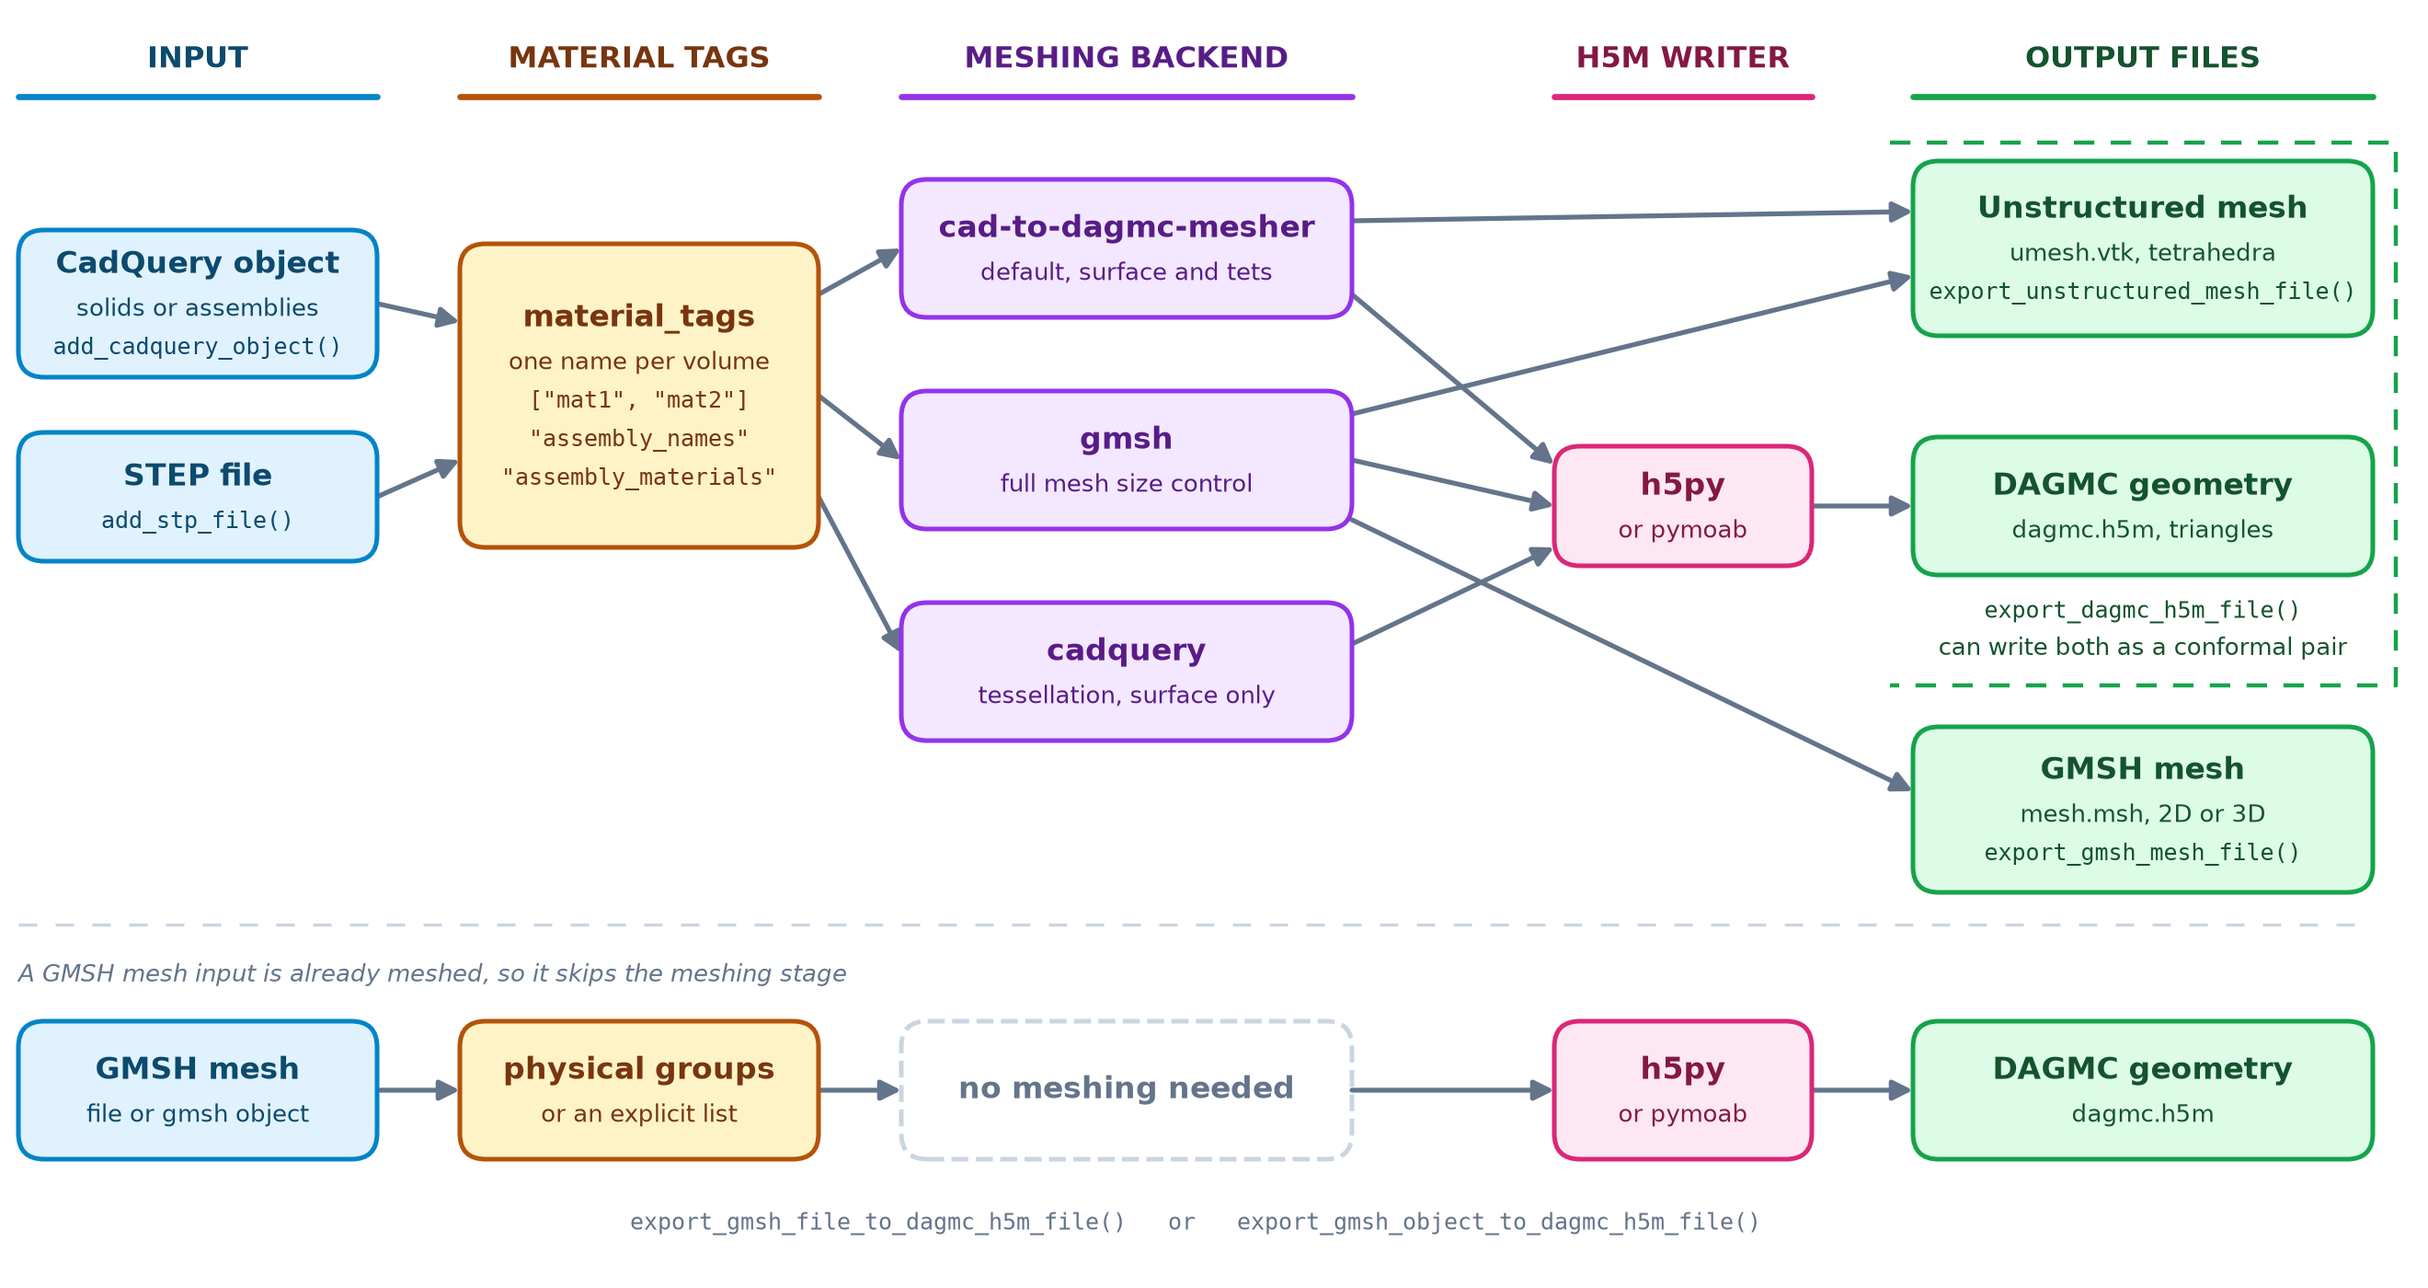
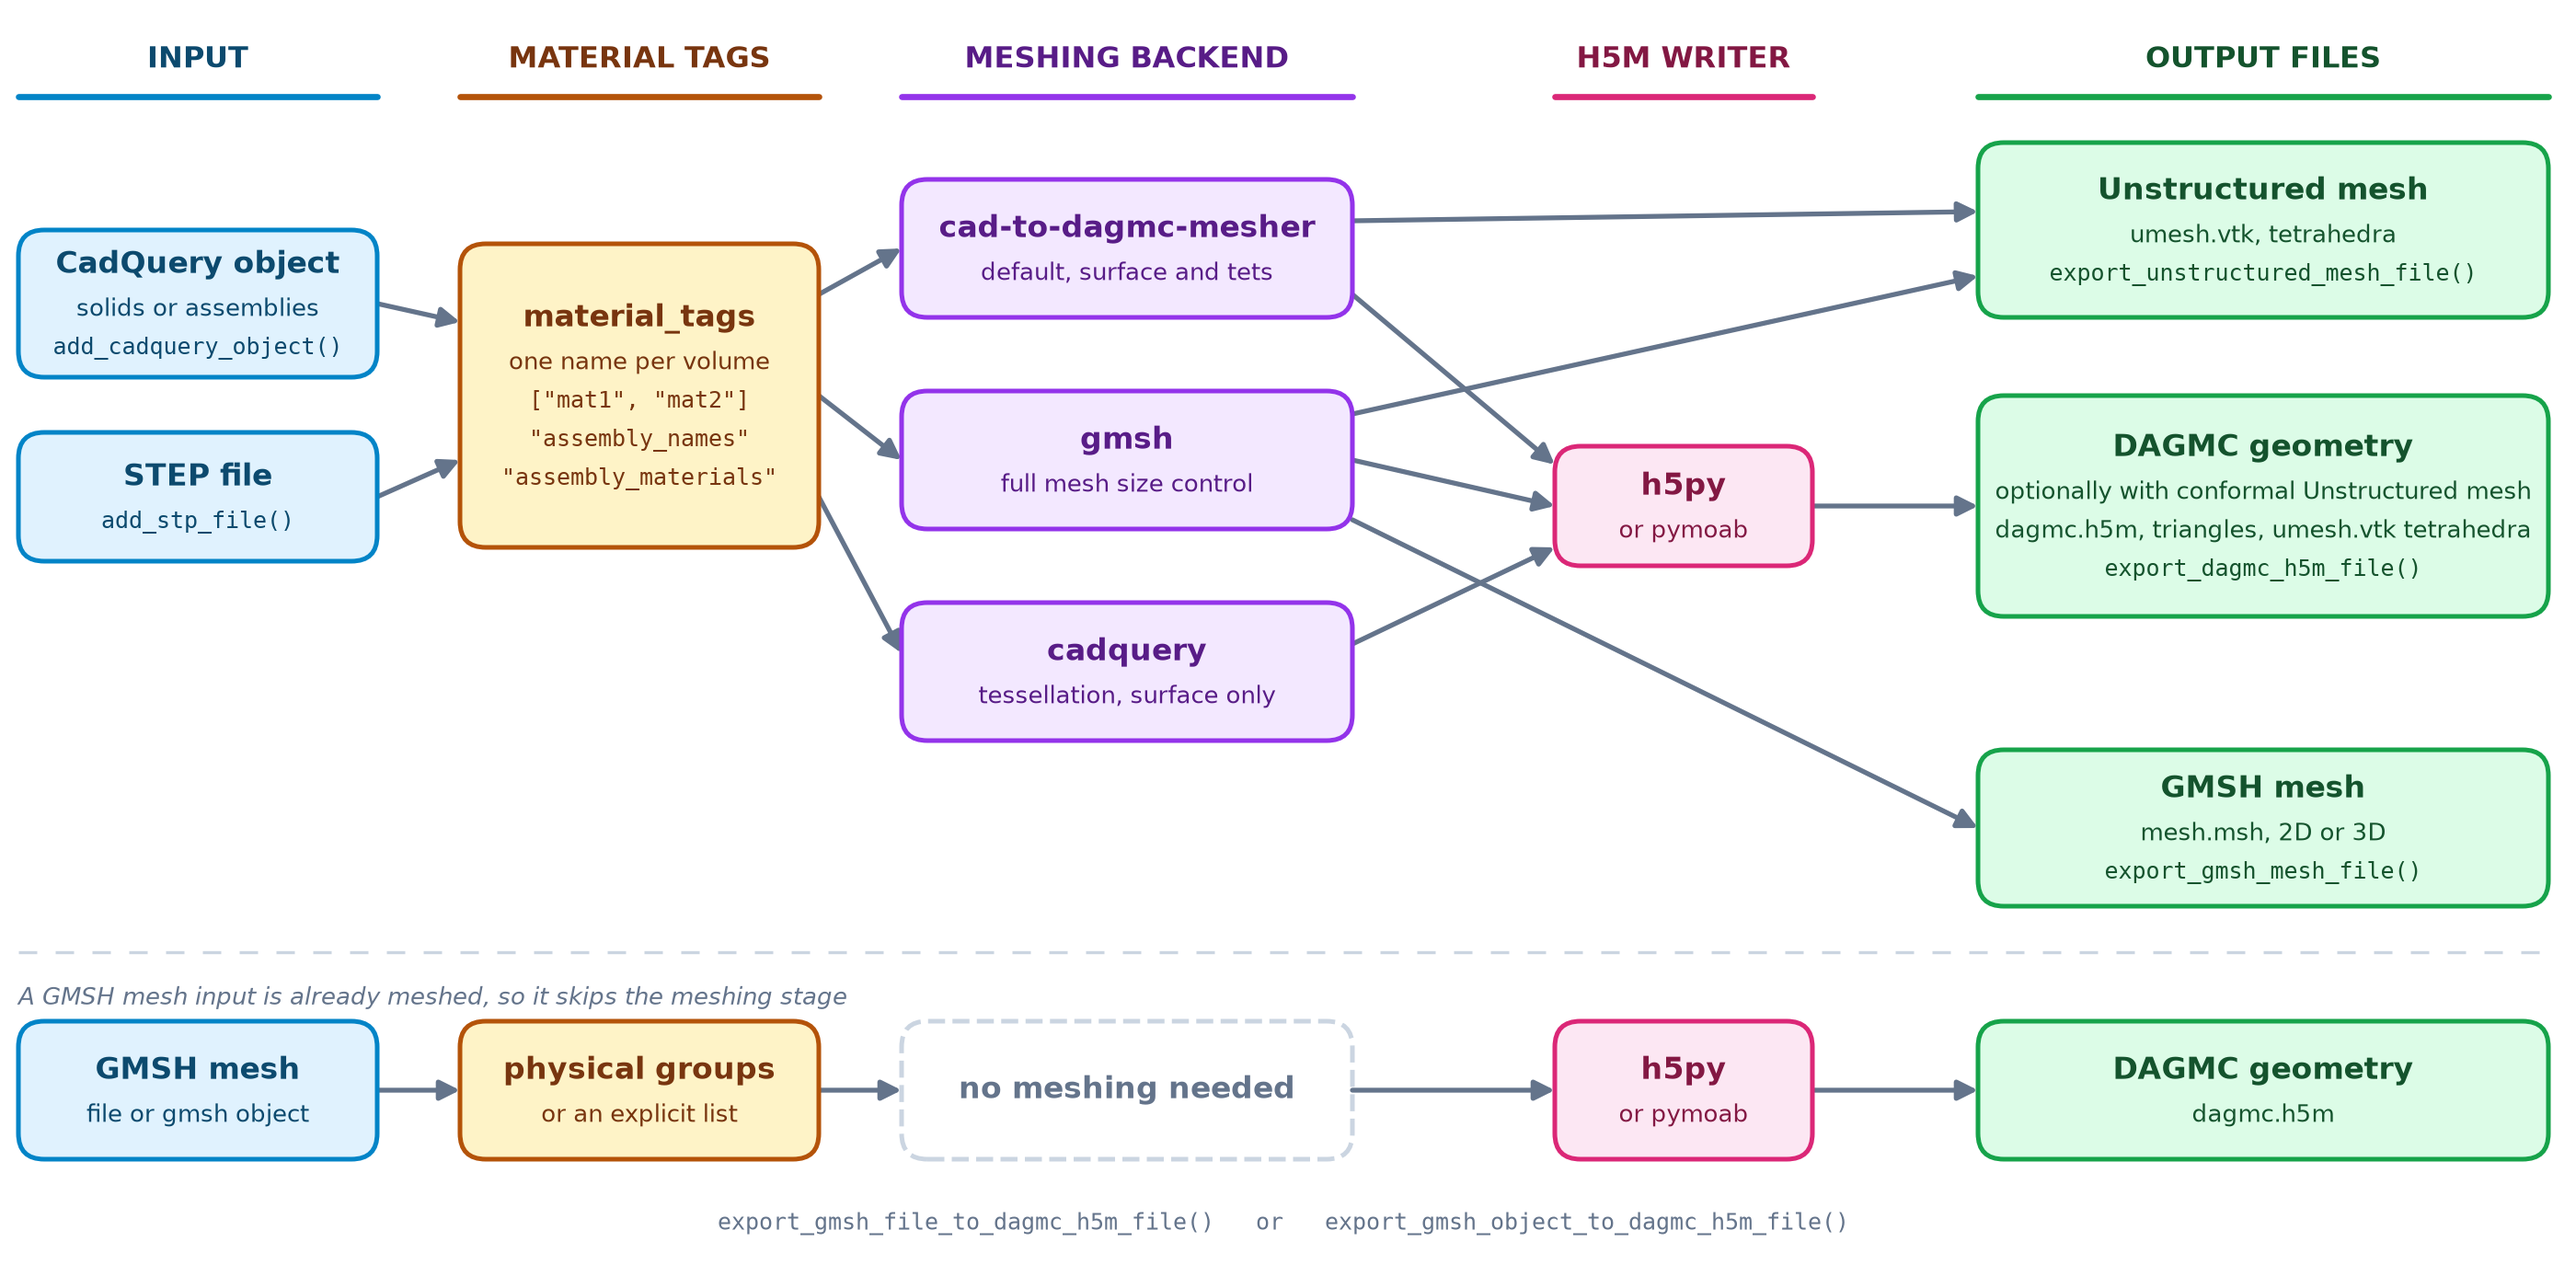
Name both conformal output files inside the DAGMC geometry box
The dashed panel bracketing the two output files was hard to read, the
label sat on bare background between the boxes rather than in anything.

The DAGMC geometry box now carries it instead: the box says it optionally
comes with a conformal unstructured mesh, lists both files it can hold and
names export_dagmc_h5m_file as the call that writes them.

Widening that column to fit the longer lines also fixed a smaller overflow
that was already there, export_unstructured_mesh_file() was running about
0.2 units past the edge of its box.

To stop overflow recurring, the script now measures every box label once the
figure has a renderer and raises if a line is wider than the box holding it,
so a too-long label fails the run instead of being written out.

diff --git a/docs/_scripts/generate_workflow_diagram.py b/docs/_scripts/generate_workflow_diagram.py
@@ -22,9 +22,9 @@ from matplotlib.patches import FancyArrowPatch, FancyBboxPatch
 
 OUTPUT_DIR = Path(__file__).resolve().parents[1] / "_static"
 
-XLIM = (0.0, 26.4)
+XLIM = (0.0, 28.0)
 YLIM = (0.0, 14.0)
-FIGSIZE = (13.2, 7.0)
+FIGSIZE = (14.0, 7.0)
 
 # Column centres and half widths, one entry per stage.
 COLUMNS = {
@@ -32,7 +32,7 @@ COLUMNS = {
     "tagging": (6.95, 1.95),
     "meshing": (12.25, 2.45),
     "writer": (18.30, 1.40),
-    "output": (23.30, 2.50),
+    "output": (24.60, 3.10),
 }
 
 # Fill, border and text colour for each stage.
@@ -67,7 +67,11 @@ CAPTION_SIZE = 9.5
 
 
 def draw_box(ax, theme, stage, y, height, title, subs=(), dashed=False):
-    """Draws a rounded box centred on its column and returns its x extent."""
+    """Draws a rounded box centred on its column and returns its x extent.
+
+    Every line drawn is recorded on the axes so check_text_fits() can confirm
+    afterwards that none of them overflow the box holding them.
+    """
     fill, edge, text_colour = theme[stage]
     x_centre, half_width = COLUMNS[stage]
 
@@ -94,7 +98,7 @@ def draw_box(ax, theme, stage, y, height, title, subs=(), dashed=False):
     for index, line_height in enumerate(line_heights):
         cursor -= line_height / 2
         if index == 0:
-            ax.text(
+            artist = ax.text(
                 x_centre,
                 cursor,
                 title,
@@ -107,7 +111,7 @@ def draw_box(ax, theme, stage, y, height, title, subs=(), dashed=False):
             )
         else:
             label, mono = subs[index - 1]
-            ax.text(
+            artist = ax.text(
                 x_centre,
                 cursor,
                 label,
@@ -118,9 +122,34 @@ def draw_box(ax, theme, stage, y, height, title, subs=(), dashed=False):
                 family="monospace" if mono else None,
                 zorder=4,
             )
+        ax._boxed_text.append((artist, half_width))
         cursor -= line_height / 2
 
     return x_centre - half_width, x_centre + half_width
+
+
+def check_text_fits(fig, ax, margin=0.12):
+    """Raises if any box label is wider than the box drawn around it.
+
+    Overflowing text is easy to miss when only the generated png is looked at,
+    so the widths are measured once the figure has a renderer and any overflow
+    stops the run rather than being written out.
+    """
+    renderer = fig.canvas.get_renderer()
+    to_data = ax.transData.inverted()
+    overflowing = []
+    for artist, half_width in ax._boxed_text:
+        bbox = artist.get_window_extent(renderer)
+        x0, _ = to_data.transform((bbox.x0, bbox.y0))
+        x1, _ = to_data.transform((bbox.x1, bbox.y1))
+        available = 2 * half_width - 2 * margin
+        if x1 - x0 > available:
+            overflowing.append(
+                f"{artist.get_text()!r} is {x1 - x0:.2f} wide, "
+                f"the box allows {available:.2f}"
+            )
+    if overflowing:
+        raise ValueError("text overflows its box:\n  " + "\n  ".join(overflowing))
 
 
 def draw_arrow(ax, theme, start, end, rad=0.0):
@@ -177,6 +206,7 @@ def build_figure(theme_name):
     ax.set_xlim(*XLIM)
     ax.set_ylim(*YLIM)
     ax.axis("off")
+    ax._boxed_text = []
 
     draw_headers(ax, theme)
 
@@ -243,57 +273,35 @@ def build_figure(theme_name):
         ax,
         theme,
         "output",
-        11.3,
+        11.5,
         1.9,
         "Unstructured mesh",
         [("umesh.vtk, tetrahedra", False), ("export_unstructured_mesh_file()", True)],
     )
-    # The producing call for this box is named on the bracket below, which
-    # covers both files it can write.
+    # One export_dagmc_h5m_file call writes the h5m on its own, or the h5m and a
+    # conformal unstructured mesh vtk together, so both files it can produce are
+    # named in this one box.
     h5m_left, _ = draw_box(
-        ax, theme, "output", 8.5, 1.5, "DAGMC geometry", [("dagmc.h5m, triangles", False)]
+        ax,
+        theme,
+        "output",
+        8.5,
+        2.4,
+        "DAGMC geometry",
+        [
+            ("optionally with conformal Unstructured mesh", False),
+            ("dagmc.h5m, triangles, umesh.vtk tetrahedra", False),
+            ("export_dagmc_h5m_file()", True),
+        ],
     )
     msh_left, _ = draw_box(
         ax,
         theme,
         "output",
-        5.2,
-        1.8,
+        5.0,
+        1.7,
         "GMSH mesh",
         [("mesh.msh, 2D or 3D", False), ("export_gmsh_mesh_file()", True)],
-    )
-
-    # export_dagmc_h5m_file can write the h5m and a conformal vtk in one call,
-    # so bracket the two output files it produces together. The bracket is left
-    # open on the side the arrows come in from.
-    _, output_edge, output_text = theme["output"]
-    ax.plot(
-        [20.55, 26.05, 26.05, 20.55],
-        [12.45, 12.45, 6.55, 6.55],
-        color=output_edge,
-        linewidth=1.6,
-        linestyle=(0, (5, 4)),
-        solid_joinstyle="round",
-        zorder=1,
-    )
-    ax.text(
-        23.3,
-        7.35,
-        "export_dagmc_h5m_file()",
-        ha="center",
-        va="center",
-        fontsize=MONO_SIZE,
-        family="monospace",
-        color=output_text,
-    )
-    ax.text(
-        23.3,
-        6.95,
-        "can write both as a conformal pair",
-        ha="center",
-        va="center",
-        fontsize=SUB_SIZE,
-        color=output_text,
     )
 
     # Inputs feed the material tags.
@@ -316,19 +324,19 @@ def build_figure(theme_name):
     draw_arrow(ax, theme, (gmsh_right, 9.5), (vtk_left, 11.0))
 
     # Only gmsh writes its own native mesh format.
-    draw_arrow(ax, theme, (gmsh_right, 8.35), (msh_left, 5.4))
+    draw_arrow(ax, theme, (gmsh_right, 8.35), (msh_left, 5.0))
 
     # An already meshed input skips the meshing stage, shown as its own row.
     ax.plot(
-        [0.2, 25.8],
-        [3.95, 3.95],
+        [0.2, 27.7],
+        [3.65, 3.65],
         color=theme["divider"],
         linewidth=1.2,
         linestyle=(0, (6, 6)),
     )
     ax.text(
         0.2,
-        3.4,
+        3.15,
         "A GMSH mesh input is already meshed, so it skips the meshing stage",
         ha="left",
         va="center",
@@ -365,7 +373,7 @@ def build_figure(theme_name):
     draw_arrow(ax, theme, (writer2_right, 2.15), (h5m2_left, 2.15))
 
     ax.text(
-        13.0,
+        13.95,
         0.7,
         "export_gmsh_file_to_dagmc_h5m_file()   or   "
         "export_gmsh_object_to_dagmc_h5m_file()",
@@ -376,6 +384,8 @@ def build_figure(theme_name):
         color=theme["muted"],
     )
 
+    fig.canvas.draw()
+    check_text_fits(fig, ax)
     return fig
 
 

diff --git a/docs/index.md b/docs/index.md
@@ -19,13 +19,13 @@ Pass `unstructured_volumes` on the gmsh backend, or `tet_volumes` and
 filenames. See [Conformal Meshes](outputs/conformal_meshes.md).
 
 ```{image} _static/workflow_light.png
-:alt: CadQuery objects and STEP files are given material tags, then meshed by the cad-to-dagmc-mesher, gmsh or cadquery backend. All three write DAGMC h5m files through the h5py or pymoab writer. The cad-to-dagmc-mesher and gmsh backends also write tetrahedra to unstructured mesh vtk files, and gmsh also writes GMSH msh files. A single export_dagmc_h5m_file call can write the DAGMC h5m file and the unstructured mesh vtk file together as a conformal pair. A GMSH mesh input skips the meshing stage and goes straight to an h5m writer.
+:alt: CadQuery objects and STEP files are given material tags, then meshed by the cad-to-dagmc-mesher, gmsh or cadquery backend. All three write DAGMC h5m files through the h5py or pymoab writer. The cad-to-dagmc-mesher and gmsh backends also write tetrahedra to unstructured mesh vtk files, and gmsh also writes GMSH msh files. The DAGMC geometry output names both files export_dagmc_h5m_file can write, the dagmc.h5m on its own or with a conformal umesh.vtk. A GMSH mesh input skips the meshing stage and goes straight to an h5m writer.
 :class: only-light
 :width: 100%
 ```
 
 ```{image} _static/workflow_dark.png
-:alt: CadQuery objects and STEP files are given material tags, then meshed by the cad-to-dagmc-mesher, gmsh or cadquery backend. All three write DAGMC h5m files through the h5py or pymoab writer. The cad-to-dagmc-mesher and gmsh backends also write tetrahedra to unstructured mesh vtk files, and gmsh also writes GMSH msh files. A single export_dagmc_h5m_file call can write the DAGMC h5m file and the unstructured mesh vtk file together as a conformal pair. A GMSH mesh input skips the meshing stage and goes straight to an h5m writer.
+:alt: CadQuery objects and STEP files are given material tags, then meshed by the cad-to-dagmc-mesher, gmsh or cadquery backend. All three write DAGMC h5m files through the h5py or pymoab writer. The cad-to-dagmc-mesher and gmsh backends also write tetrahedra to unstructured mesh vtk files, and gmsh also writes GMSH msh files. The DAGMC geometry output names both files export_dagmc_h5m_file can write, the dagmc.h5m on its own or with a conformal umesh.vtk. A GMSH mesh input skips the meshing stage and goes straight to an h5m writer.
 :class: only-dark
 :width: 100%
 ```
